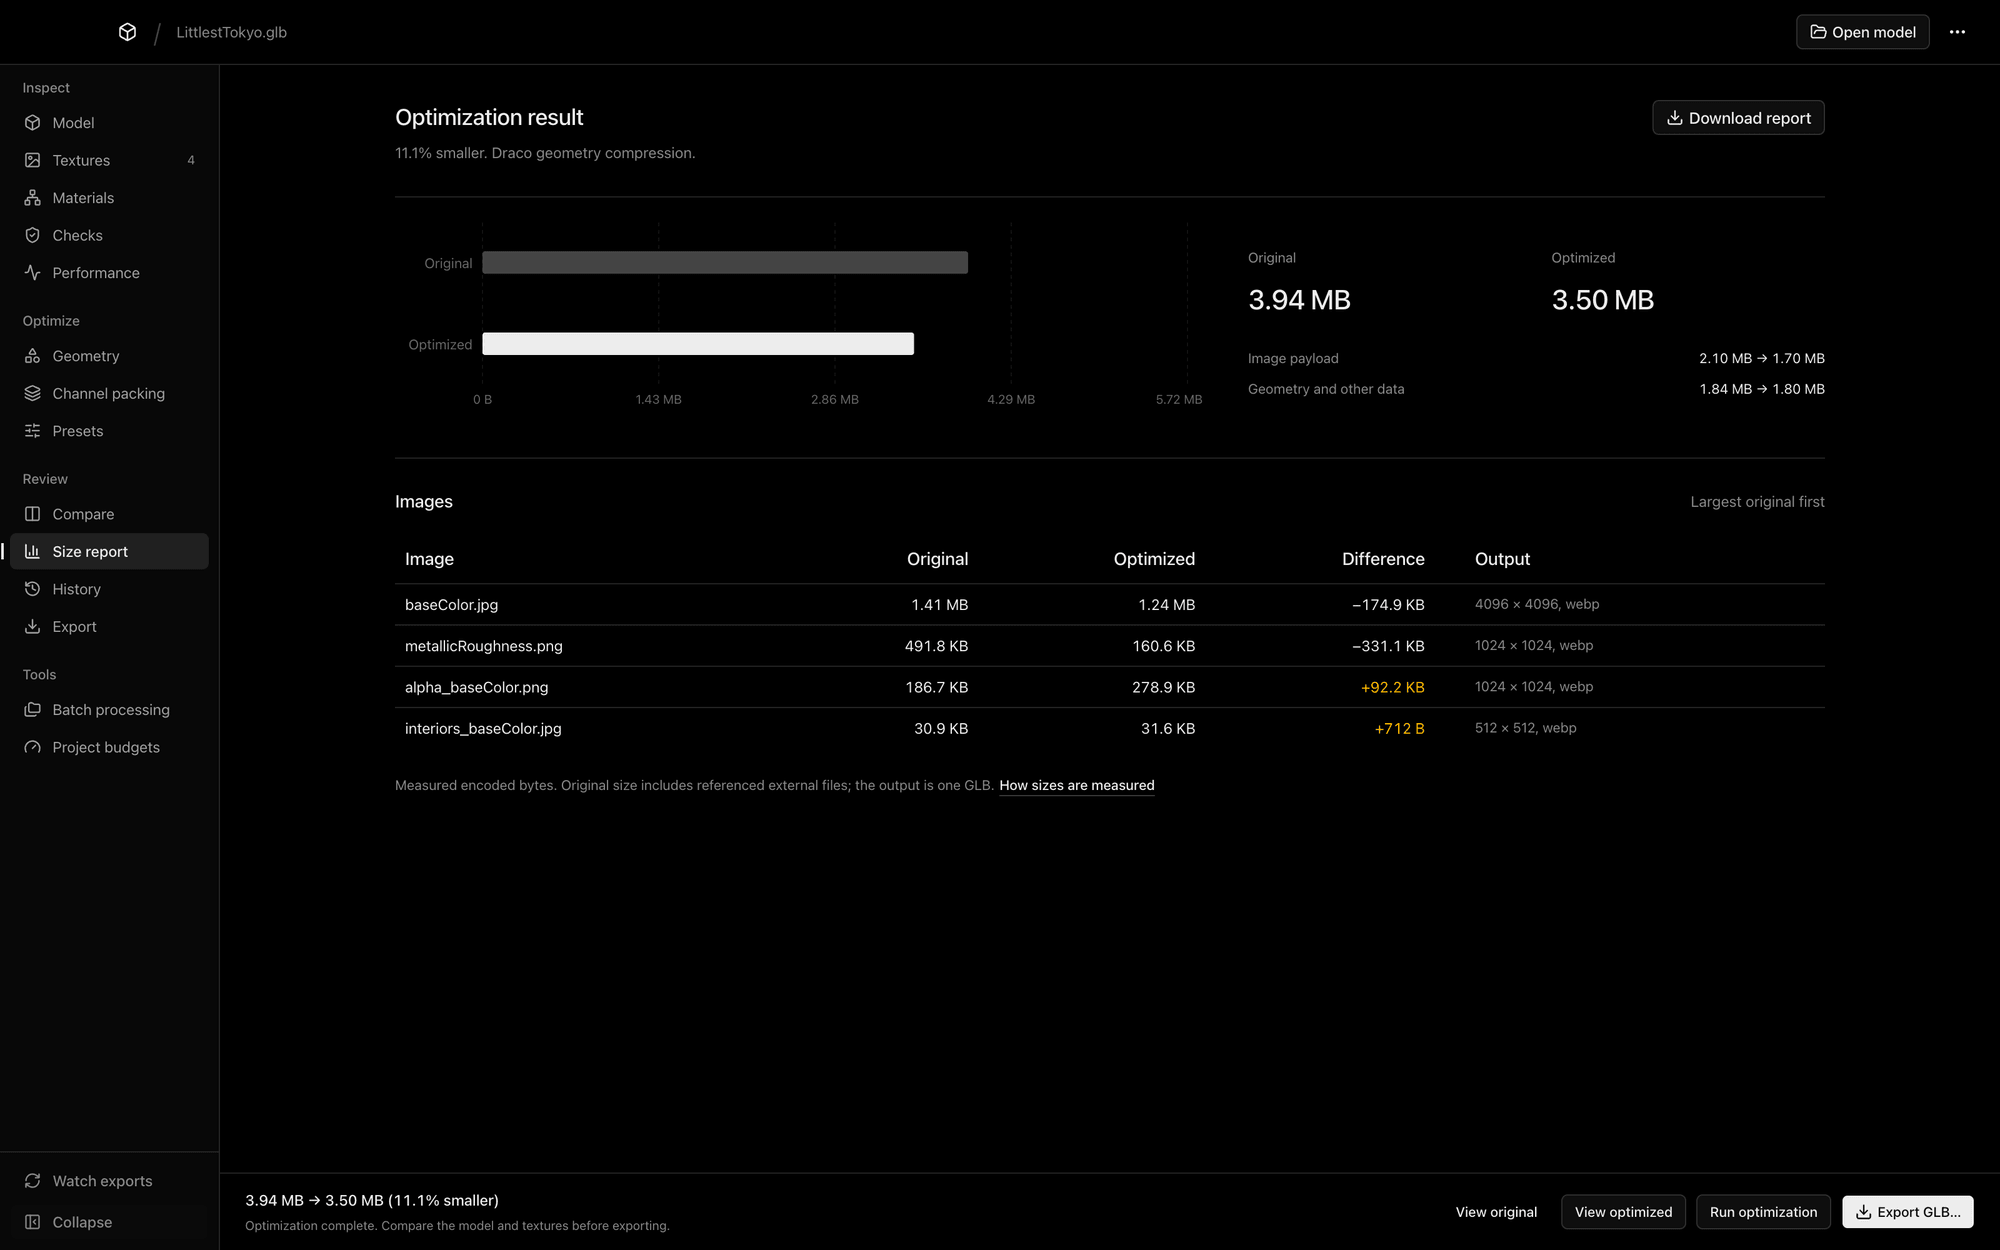
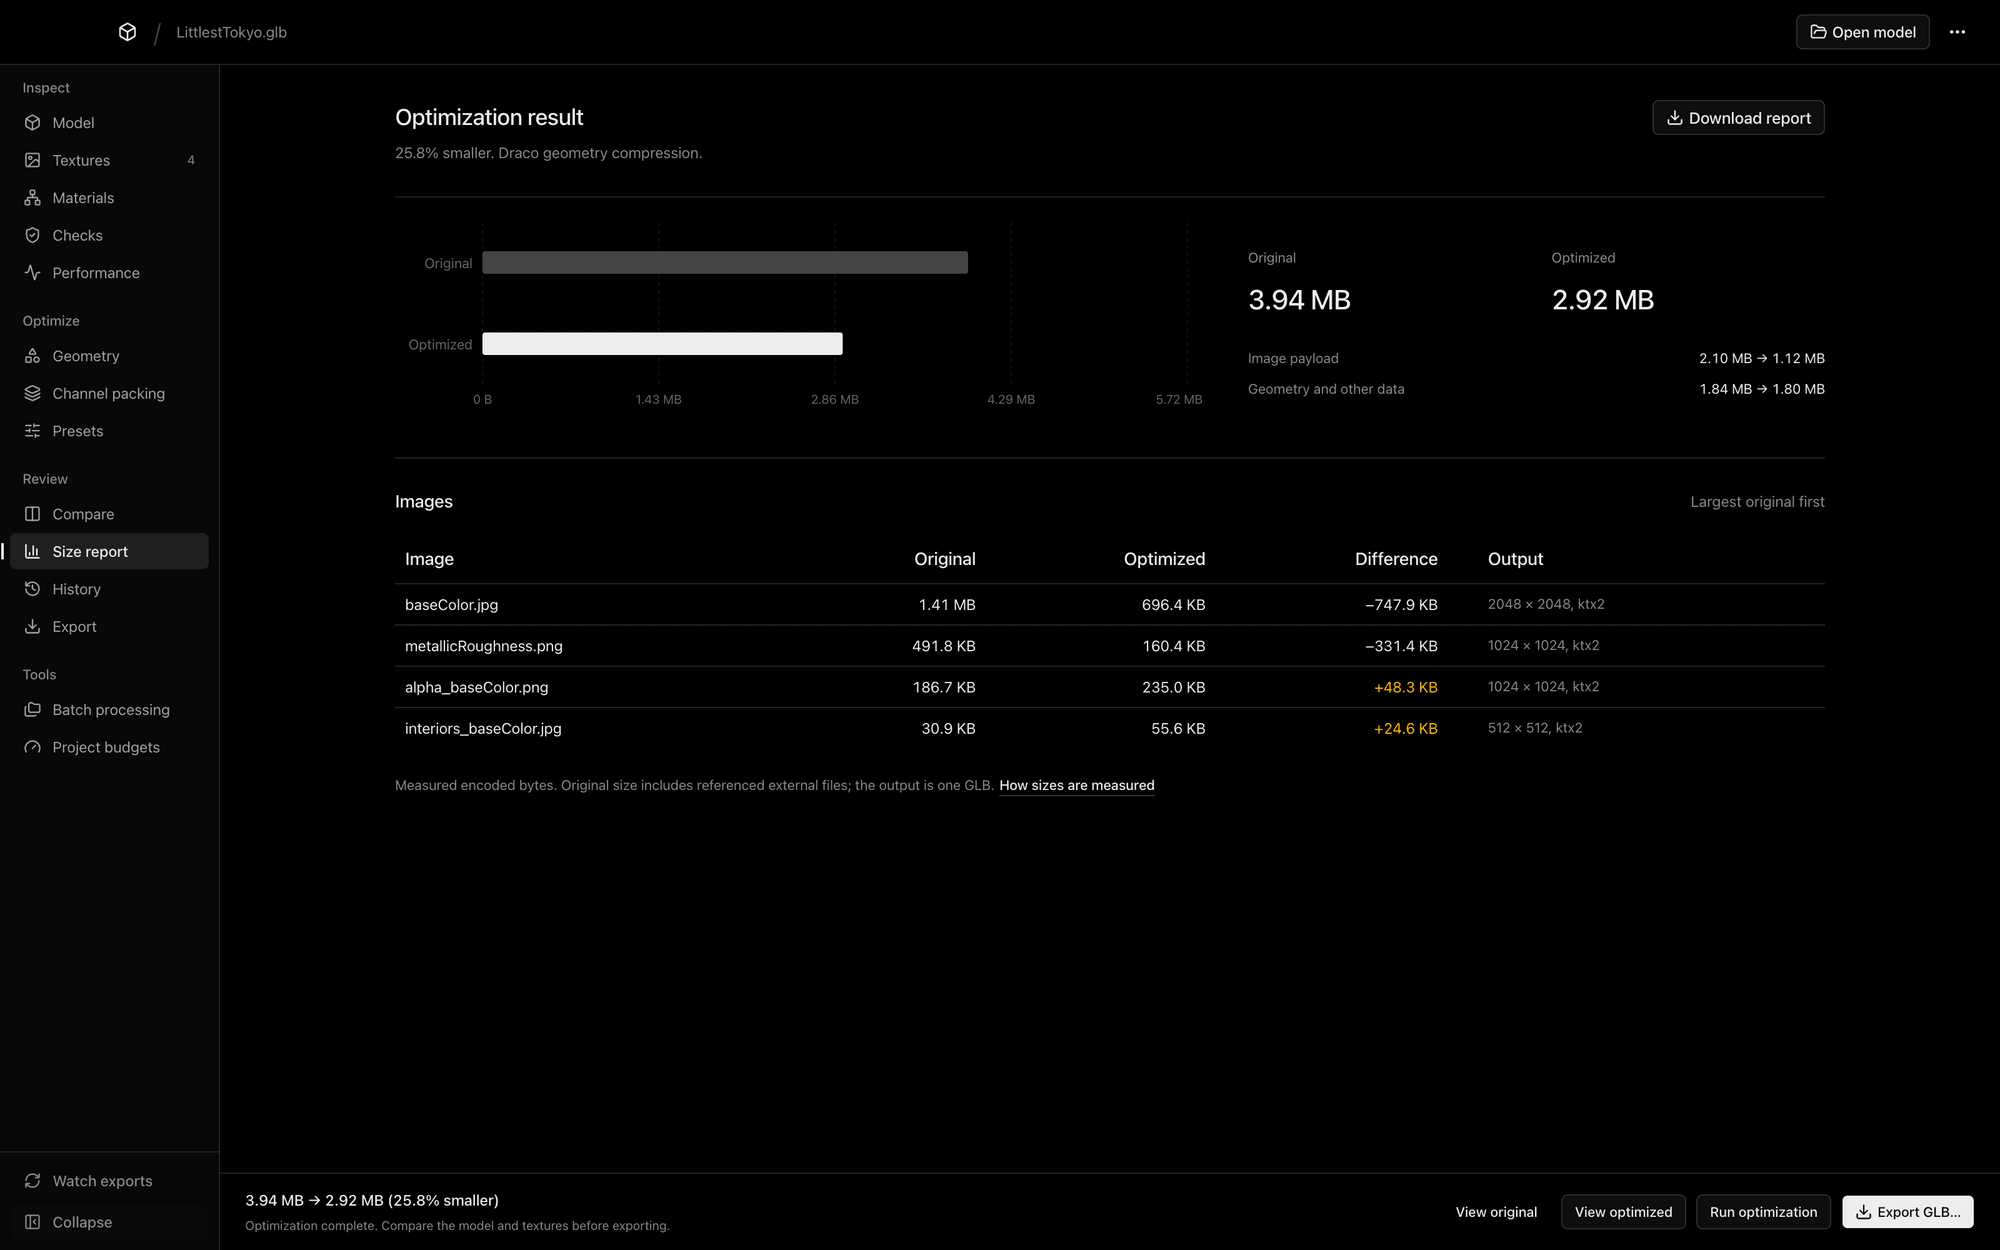
Release 1.3.2 with ad-hoc signing and a visual README
Ad-hoc sign builds without Apple credentials so Apple Silicon no longer
reports them as damaged, and verify app signatures in the release workflow.
Lead the README with KTX2 compression and pair features with screenshots.

diff --git a/README.md b/README.md
@@ -1,69 +1,78 @@
 # GLB Viewer
 
-A local-first Mac app for preparing Blender assets for Three.js.
+**Shrink, inspect, and prepare GLB models for Three.js.** A local-first Mac app that compresses textures to KTX2, optimizes geometry, and shows exactly what changed. Your models never leave your computer.
+
+[**Download for Mac**](https://github.com/cullenwebber/glb-viewer/releases/latest) · [User guide](docs/user-guide.md) · [Blender bridge](docs/blender-bridge.md)
 
 ![GLB Viewer inspecting an animated model](docs/screenshots/model.png)
 
-- [Download the latest release](https://github.com/cullenwebber/glb-viewer/releases/latest) — Apple Silicon and Intel.
-- Open the DMG and drag **GLB Viewer** into Applications.
-- [User guide](docs/user-guide.md) · [Release setup](docs/releasing.md) · [Builds](https://github.com/cullenwebber/glb-viewer/actions)
+## Install
 
-## Features
+1. Download the DMG from the [latest release](https://github.com/cullenwebber/glb-viewer/releases/latest): **arm64** for Apple Silicon or **x64** for Intel.
+2. Open it and drag **GLB Viewer** into Applications.
+3. Open the app. macOS will warn you the first time because builds aren't notarized by Apple yet.
+4. Go to **System Settings → Privacy & Security** and click **Open Anyway**.
 
-- Labelled tool navigation and draggable panel widths.
+If macOS still won't open it, run `xattr -cr "/Applications/GLB Viewer.app"` in Terminal.
 
-- GLB/glTF preview, scene selection, mesh isolation, and animation playback.
-- WebGPU rendering with Three.js's WebGL 2 fallback backend.
-- A Materials node workspace with live TSL previews, socket wiring, undo/redo, and graph/TypeScript exports.
-- A Blender add-on for atomic, watched exports with embedded material graphs.
-- Procedural noise nodes and physical glass/coat/sheen inputs, plus imported camera views and scene-light helpers.
-- Vertex/face normals, bones, bone weights, face orientation, and cost heatmaps.
-- Material solo views, UV checker, and UV layout inspection.
-- Texture pan/zoom, channel debugging, individual resizing, and channel packing.
-- Draco/Meshopt geometry compression and KTX2, WebP, PNG, or JPEG textures.
-- Per-mesh simplification, cleanup, instancing, and LOD exports.
-- glTF validation with actionable fixes and output rechecking.
-- Linked before/after comparison, saved run history, presets, and project budgets.
-- Folder batch processing and automatic Blender re-export watching.
-- Three.js bundles with decoders, typed lookups, and a React Three Fiber component.
-- Actual before/after file sizes, draw calls, load timings, and memory estimates.
-- Models stay local; source files are preserved.
+## Compress textures to KTX2
 
-## Screenshots
+Convert each image to GPU-ready KTX2, or use WebP, PNG, or JPEG where that suits it better.
 
-### Build materials with live nodes
+- **KTX2 with ETC1S or UASTC**, with quality, effort, and mipmap controls
+- **Per-texture settings**, including maximum resolution
+- **Channel viewer** with pan, zoom, and RGBA debugging
+- **Channel packing** for combined texture maps
 
-Wire procedural nodes, preview them on the model, and export them as TSL.
+![KTX2 settings for a texture](docs/screenshots/ktx2-settings.png)
 
-![Materials node editor driving an animated noise material](docs/screenshots/materials.png)
+> ETC1S encoding currently handles textures up to about 12 megapixels. Set a 4096 px texture to 2048 px before encoding.
 
-### Compare before you export
+## See exactly what you saved
 
-Check the optimized model next to the original with linked cameras and animation.
+Get measured before and after sizes for the whole file and for every image.
+
+- **Real output sizes**, not estimates
+- **Draco or Meshopt** geometry compression
+- **Project budgets** and saved run history
+
+![Size report showing a model reduced from 3.94 MB to 2.92 MB](docs/screenshots/report.png)
+
+## Compare before you export
+
+Check the optimized model beside the original, with cameras and animation linked.
+
+- **Mesh simplification** with per-mesh overrides and LOD exports
+- **Cleanup and instancing** to cut resources and draw calls
+- **glTF validation** with actionable fixes
+- **Three.js bundles** with decoders, typed lookups, and a React Three Fiber component
 
 ![Original and optimized models side by side](docs/screenshots/compare.png)
 
-### See what each change saves
+## Build materials with live nodes
 
-Measure the actual output size, image by image.
+Wire procedural nodes, preview them on your model, and export them as TSL.
 
-![Size report for an optimization run](docs/screenshots/report.png)
+- **Noise, mapping, math, ramp, and Time nodes**, plus physical glass, coat, and sheen inputs
+- **Live WebGPU preview**, with Three.js's WebGL 2 fallback
+- **Blender add-on** for watched exports with embedded material graphs, cameras, and lights
 
-### Inspect textures and UVs
+![Materials node editor driving an animated noise material](docs/screenshots/materials.png)
 
-| Textures | UV checker |
+The node editor translates supported Blender nodes. It isn't full Cycles parity or two-way sync. See [Blender bridge and node editor](docs/blender-bridge.md) for setup and supported nodes.
+
+## Inspect every detail
+
+| UV checker | Texture library |
 | --- | --- |
-| ![Texture library and channel viewer](docs/screenshots/textures.png) | ![UV checker view of the model](docs/screenshots/inspection.png) |
+| ![UV checker view of the model](docs/screenshots/inspection.png) | ![Texture library and channel viewer](docs/screenshots/textures.png) |
+
+- **Surface views:** material solo, UV checker, and UV layout
+- **Geometry views:** normals, bones, bone weights, face orientation, and cost heatmaps
+- **Performance:** draw calls, load timings, and memory estimates
+- **Batch processing** for whole folders
 
 Demo model: [Littlest Tokyo](https://www.artstation.com/artwork/1AGwX) by Glen Fox, CC Attribution, from the [Three.js examples](https://threejs.org/examples/#webgl_animation_keyframes).
-
-## Blender and material nodes
-
-Download the Blender add-on from **Export → Blender bridge**, or build it with `npm run build` to create `dist/glb-viewer-bridge.zip`. Install the ZIP in Blender 4.2+, open the **GLB Viewer** sidebar, choose an output folder, and click **Send to GLB Viewer**. Open its `model.glb` here once and enable **Watch exports**. Blender can also export automatically after saving the `.blend` file.
-
-Open **Materials** to add and connect supported nodes, edit values and image textures, and preview them on a selected material. **Save graph** creates an editable JSON file; **Export TSL** creates a standalone Three.js material factory. Editor drafts last for this session and are exported separately, not baked into optimized GLBs. Unsupported Blender graphs retain glTF fallback materials with diagnostics. This is a supported-node translator, not full Cycles parity or two-way Blender synchronization.
-
-See [Blender bridge and node editor](docs/blender-bridge.md) for supported nodes, shortcuts, and integration.
 
 ## Development
 
@@ -81,5 +90,5 @@ See [Blender bridge and node editor](docs/blender-bridge.md) for supported nodes
 
 - Version tags trigger tested Apple Silicon and Intel release builds.
 - In-app update checks find new GitHub releases.
-- Unsigned builds use manual installation; automatic installation requires Apple signing credentials.
+- Builds without Apple credentials are ad-hoc signed and use manual installation; automatic installation requires Apple signing credentials.
 - Presets, budgets, and history survive app updates.

diff --git a/docs/releasing.md b/docs/releasing.md
@@ -14,7 +14,7 @@ Installers use `GLB-Viewer-<version>-<arch>.dmg` and `.zip`. Release metadata an
 
 ## Apple signing and notarization
 
-Unsigned builds use manual updates. If you are not enrolled yet:
+Without Apple credentials, the workflow ad-hoc signs the app without hardened runtime, because Apple Silicon reports an unsigned Electron bundle as damaged. Ad-hoc builds are not notarized, so users must approve the first launch, and they use manual updates. If you are not enrolled yet:
 
 1. [Enroll in the Apple Developer Program](https://developer.apple.com/programs/enroll/) using your own Apple Account. Apple lists an annual fee of US$99 or local pricing and verifies your identity during enrollment.
 2. After approval, follow [Apple's Developer ID certificate instructions](https://developer.apple.com/help/account/certificates/create-developer-id-certificates/) to create a **Developer ID Application** certificate. This is the certificate for signing an app distributed outside the Mac App Store.

diff --git a/docs/release-notes.md b/docs/release-notes.md
@@ -1,8 +1,10 @@
-## GLB Viewer 1.3.1
+## GLB Viewer 1.3.2
 
-- Adds screenshots of the app to the README.
-- Includes no changes to app behavior since 1.3.0.
+- Fixes the macOS "GLB Viewer is damaged and can't be opened" error on downloaded builds.
+- Reorganizes the README around screenshots, with KTX2 texture compression up front.
 
 Choose the **arm64** DMG for Apple Silicon or **x64** for Intel. Copy GLB Viewer to Applications.
 
-These builds are unsigned until Apple signing credentials are configured. Update checks open the release page for manual installation; saved presets, budgets, and history are retained.
+**First launch:** these builds aren't notarized by Apple yet, so macOS will warn you. Open **System Settings → Privacy & Security** and click **Open Anyway**. If it still won't open, run `xattr -cr "/Applications/GLB Viewer.app"` in Terminal.
+
+Update checks open the release page for manual installation; saved presets, budgets, and history are retained.

diff --git a/docs/user-guide.md b/docs/user-guide.md
@@ -8,7 +8,7 @@ A macOS desktop workspace for inspecting, debugging, comparing, and optimizing G
 
 ## Install
 
-Choose the **arm64** DMG for Apple Silicon or **x64** for Intel, open it, and copy GLB Viewer to Applications. Initial unsigned builds use manual updates; Developer ID-signed builds can install updates from inside the app. **Updates** checks GitHub for a newer release. Presets, budgets, and optimization history survive app replacement.
+Choose the **arm64** DMG for Apple Silicon or **x64** for Intel, open it, and copy GLB Viewer to Applications. Builds are not notarized by Apple yet, so macOS warns on first launch: open **System Settings → Privacy & Security** and click **Open Anyway**. Updates are installed manually from the releases page; presets, budgets, and history are retained.
 
 ## Run
 
